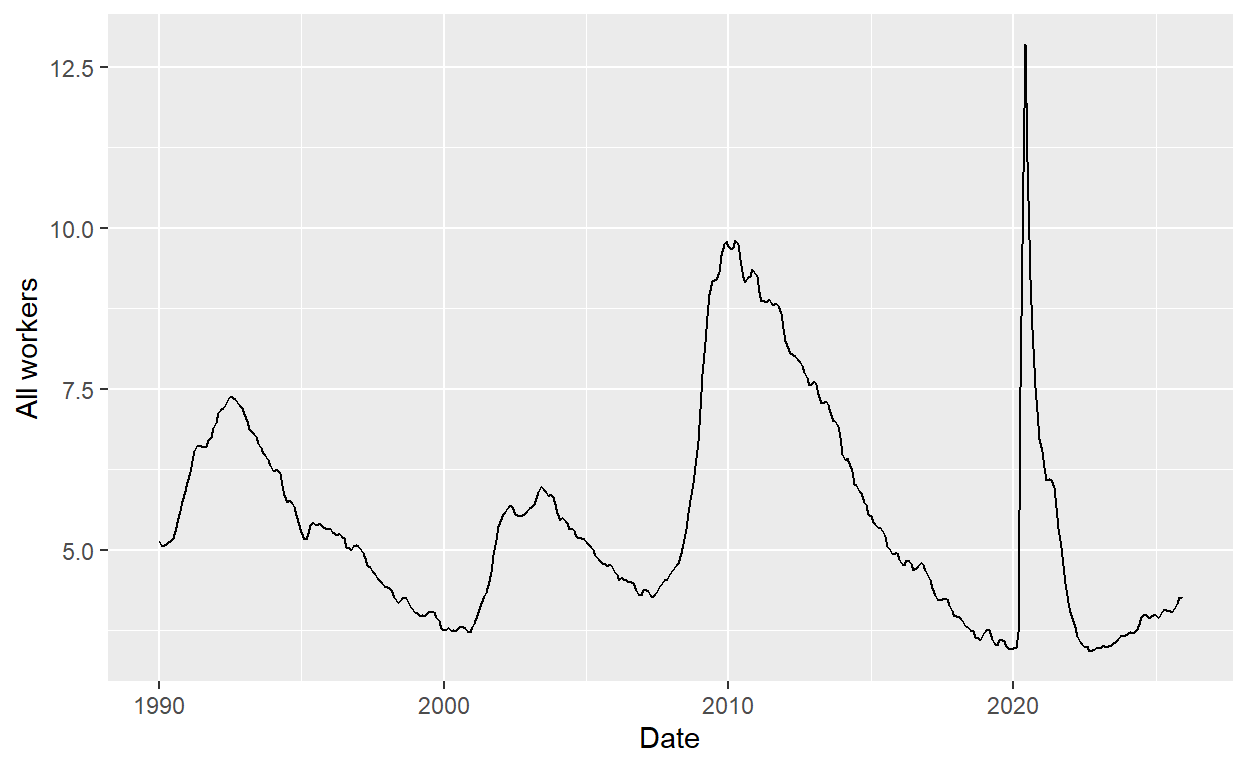
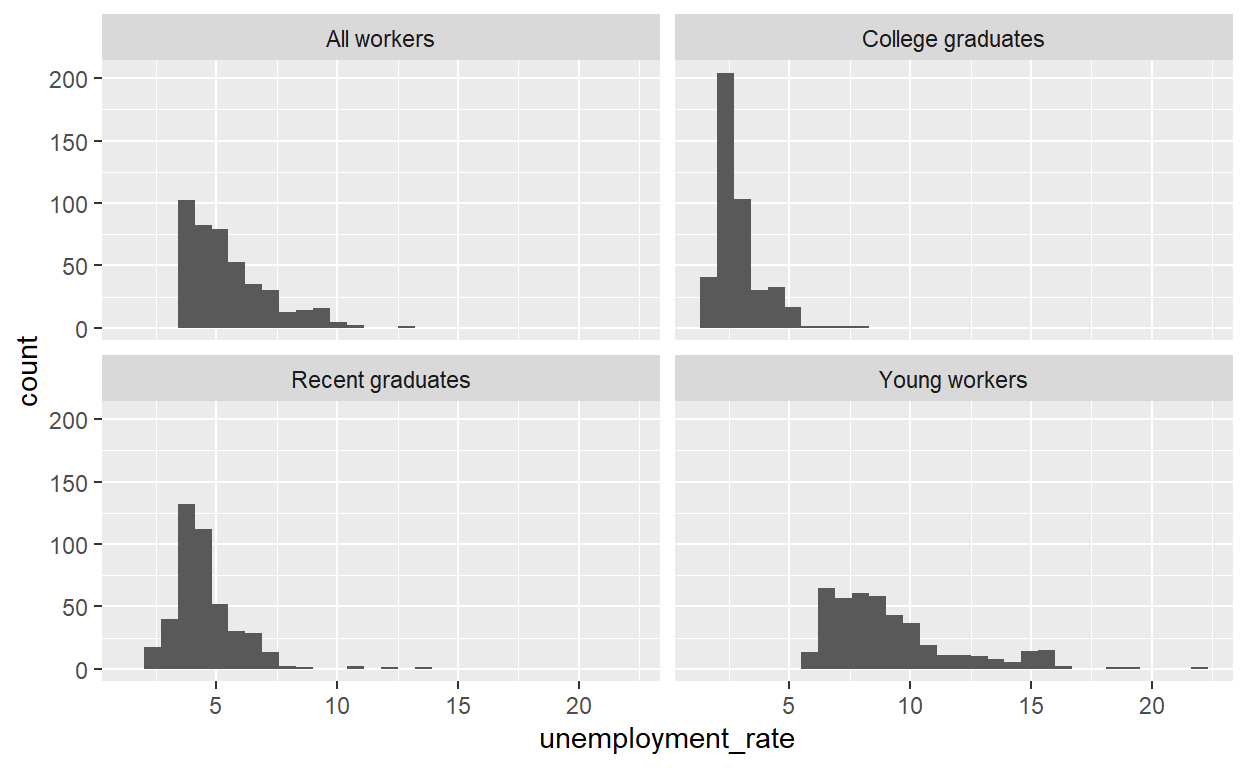
added histogram

diff --git a/index.html b/index.html
@@ -1545,9 +1545,53 @@ code span.wa { color: #5e5e5e; font-style: italic; } /* Warning */
 
 <div class="d-article">
 <h2 id="project-thoughts">Project thoughts</h2>
-<p>I am interested in exploring data related to college graduates and available jobs overtime.</p>
-<p>My research question is, how is unemployment rate related to the job availability for recent college graduates?
-My hypothesis is that the unemployment rate for recent college graduates is currently one of the highest among other groups studied, reflecting that job availability is lower for them. The variables are unemployment rate, recent college graduates, and years. My outcome variable of interest is the unemployment rate percent. This is measured by measuring what specific group (in this case recent college grads) and the percentage of them that are unemployed. The explanatory variable is time. An observed pattern in the data that would prove my hypothesis would be recent college graduates having a higher unemployment rate post 2008 among the other groups studied. A pattern that would disprove my hypothesis would be recent college graduates having a lower unemployment rate post 2008 among the other groups studied.</p>
+<p>I am interested in exploring data related to recent college graduates and other group types with the type of unemployment rate they have.</p>
+<p>My research question is, how has the passage of time post-2008 affected the recent graduate unemployment rate with other group types? (changed over time)
+My hypothesis is that the unemployment rate for recent college graduates post-2008 is currently one of the highest among other groups studied. The variables are unemployment rate, recent college graduates, college graduates, young workers, all workers, and years. My outcome variable of interest is the unemployment rate percent. This is measured by measuring what specific group (in this case recent college grads) and the percentage of them that are unemployed. The explanatory variable is the rate type. An observed pattern in the data that would prove my hypothesis would be recent college graduates having a higher unemployment rate post 2008 among the other groups studied. A pattern that would disprove my hypothesis would be recent college graduates having a lower unemployment rate post 2008 among the other groups studied.</p>
+<p>Please note that the date is the control, and is estimated in seconds so the estimate is very small.</p>
+<p>Predicting value of the rate w/ the type of rate</p>
+<p>The data file is “College-labor-data.xlsx”, and contains the following variables:</p>
+<table>
+<colgroup>
+<col style="width: 17%" />
+<col style="width: 82%" />
+</colgroup>
+<thead>
+<tr class="header">
+<th style="text-align: left;">Name</th>
+<th style="text-align: left;">Description</th>
+</tr>
+</thead>
+<tbody>
+<tr class="odd">
+<td style="text-align: left;">Date</td>
+<td style="text-align: left;">The date, measured in months, ranging from 1990-01-01 to 2025-12-01.</td>
+</tr>
+<tr class="even">
+<td style="text-align: left;">Unemployment rate</td>
+<td style="text-align: left;">Percentage of people in data that are willing and able to work but are currently without a paid job.</td>
+</tr>
+<tr class="odd">
+<td style="text-align: left;">Young workers</td>
+<td style="text-align: left;">Those aged 22 to 27 without a bachelor’s degree.</td>
+</tr>
+<tr class="even">
+<td style="text-align: left;">All workers</td>
+<td style="text-align: left;">Workers aged 16 to 65.</td>
+</tr>
+<tr class="odd">
+<td style="text-align: left;">College graduates</td>
+<td style="text-align: left;">Those aged 22 to 65 with a bachelor’s degree or higher.</td>
+</tr>
+<tr class="even">
+<td style="text-align: left;">Recent college graduates</td>
+<td style="text-align: left;">Those aged 22 to 27 with a bachelor’s degree or higher.</td>
+</tr>
+</tbody>
+</table>
+<ul>
+<li>All figures exclude those currently enrolled in school.</li>
+</ul>
 <div class="layout-chunk" data-layout="l-body">
 <div class="sourceCode">
 <pre class="sourceCode r"><code class="sourceCode r"><span><span class='fu'><a href='https://rdrr.io/r/base/getwd.html'>getwd</a></span><span class='op'>(</span><span class='op'>)</span></span></code></pre>
@@ -4617,50 +4661,6 @@ My hypothesis is that the unemployment rate for recent college graduates is curr
 </tbody>
 </table>
 </div>
-<p>Let’s visualize the unemployment data among recent graduates using ggplot.</p>
-<div class="layout-chunk" data-layout="l-body">
-<div class="sourceCode">
-<pre class="sourceCode r"><code class="sourceCode r"><span><span class='fu'><a href='https://ggplot2.tidyverse.org/reference/ggplot.html'>ggplot</a></span><span class='op'>(</span><span class='va'>college_labor</span>,</span>
-<span>       mapping <span class='op'>=</span> <span class='fu'><a href='https://ggplot2.tidyverse.org/reference/aes.html'>aes</a></span><span class='op'>(</span>x <span class='op'>=</span> <span class='va'>`Date`</span>,</span>
-<span>                     y <span class='op'>=</span> <span class='va'>`Recent graduates`</span><span class='op'>)</span><span class='op'>)</span> <span class='op'>+</span></span>
-<span>  <span class='fu'><a href='https://ggplot2.tidyverse.org/reference/geom_path.html'>geom_line</a></span><span class='op'>(</span><span class='op'>)</span></span></code></pre>
-</div>
-<p><img src="index_files/figure-html5/unnamed-chunk-4-1.png" alt="" width="624" /></p>
-</div>
-<p>Now, let’s visualize the unemployment data among all workers.</p>
-<div class="layout-chunk" data-layout="l-body">
-<div class="sourceCode">
-<pre class="sourceCode r"><code class="sourceCode r"><span><span class='fu'><a href='https://ggplot2.tidyverse.org/reference/ggplot.html'>ggplot</a></span><span class='op'>(</span><span class='va'>college_labor</span>, </span>
-<span>       mapping <span class='op'>=</span> <span class='fu'><a href='https://ggplot2.tidyverse.org/reference/aes.html'>aes</a></span><span class='op'>(</span>x <span class='op'>=</span> <span class='va'>`Date`</span>,</span>
-<span>                     y <span class='op'>=</span> <span class='va'>`All workers`</span><span class='op'>)</span><span class='op'>)</span> <span class='op'>+</span></span>
-<span>  <span class='fu'><a href='https://ggplot2.tidyverse.org/reference/geom_path.html'>geom_line</a></span><span class='op'>(</span><span class='op'>)</span> </span></code></pre>
-</div>
-<p><img src="index_files/figure-html5/unnamed-chunk-5-1.png" alt="" width="624" /></p>
-</div>
-<p>From both of these graphs we can see the unemployment rate, post 2008, among recent college graduates is higher than the rate for all workers. Let’s combine these two variables into one graph:</p>
-<div class="layout-chunk" data-layout="l-body">
-<div class="sourceCode">
-<pre class="sourceCode r"><code class="sourceCode r"><span><span class='va'>recentgrads_allworkers</span> <span class='op'>&lt;-</span> <span class='va'>college_labor</span> <span class='op'>|&gt;</span> </span>
-<span>  <span class='fu'><a href='https://tidyr.tidyverse.org/reference/pivot_longer.html'>pivot_longer</a></span><span class='op'>(</span></span>
-<span>    cols <span class='op'>=</span> <span class='fu'><a href='https://rdrr.io/r/base/c.html'>c</a></span><span class='op'>(</span><span class='va'>`Recent graduates`</span>, <span class='va'>`All workers`</span><span class='op'>)</span>,</span>
-<span>    names_to <span class='op'>=</span> <span class='st'>"group"</span>,</span>
-<span>    values_to <span class='op'>=</span> <span class='st'>"unemployment_rate"</span></span>
-<span>  <span class='op'>)</span></span></code></pre>
-</div>
-</div>
-<div class="layout-chunk" data-layout="l-body">
-<div class="sourceCode">
-<pre class="sourceCode r"><code class="sourceCode r"><span><span class='va'>recentgrads_allworkers</span> <span class='op'>|&gt;</span></span>
-<span>  <span class='fu'><a href='https://ggplot2.tidyverse.org/reference/ggplot.html'>ggplot</a></span><span class='op'>(</span>mapping <span class='op'>=</span> <span class='fu'><a href='https://ggplot2.tidyverse.org/reference/aes.html'>aes</a></span><span class='op'>(</span>x <span class='op'>=</span> <span class='va'>`Date`</span>, y <span class='op'>=</span> <span class='va'>unemployment_rate</span>, color <span class='op'>=</span> <span class='va'>group</span><span class='op'>)</span><span class='op'>)</span> <span class='op'>+</span></span>
-<span>  <span class='fu'><a href='https://ggplot2.tidyverse.org/reference/geom_path.html'>geom_line</a></span><span class='op'>(</span><span class='op'>)</span> <span class='op'>+</span></span>
-<span>  <span class='fu'><a href='https://ggplot2.tidyverse.org/reference/labs.html'>labs</a></span><span class='op'>(</span> x <span class='op'>=</span> <span class='st'>"Date"</span>,</span>
-<span>        y <span class='op'>=</span> <span class='st'>"Unemployment Rate"</span>,</span>
-<span>        title <span class='op'>=</span> <span class='st'>"Unemployment Rate Among Recent Graduates and All Workers"</span>,</span>
-<span>        color <span class='op'>=</span> <span class='st'>"Workers"</span><span class='op'>)</span></span></code></pre>
-</div>
-<p><img src="index_files/figure-html5/unnamed-chunk-7-1.png" alt="" width="624" /></p>
-</div>
-<p>From both of these data visualizations, we can say the current unemployment rate among recent college graduates is higher than that of current workers in the U.S., post 2008. To compare the unemployment rates across the row, the next graph will combine recent grads, college grads, all workers and young workers onto one (polished) graph.</p>
 <div class="layout-chunk" data-layout="l-body">
 <div class="sourceCode">
 <pre class="sourceCode r"><code class="sourceCode r"><span><span class='va'>college_labor_longer</span> <span class='op'>&lt;-</span> <span class='va'>college_labor</span> <span class='op'>|&gt;</span></span>
@@ -4671,6 +4671,19 @@ My hypothesis is that the unemployment rate for recent college graduates is curr
 <span>  <span class='op'>)</span></span></code></pre>
 </div>
 </div>
+<p>Let’s visualize the unemployment data among the group types using a histogram for the unemployment rate.</p>
+<div class="layout-chunk" data-layout="l-body">
+<div class="sourceCode">
+<pre class="sourceCode r"><code class="sourceCode r"><span><span class='fu'><a href='https://ggplot2.tidyverse.org/reference/ggplot.html'>ggplot</a></span><span class='op'>(</span><span class='va'>college_labor_longer</span>, <span class='fu'><a href='https://ggplot2.tidyverse.org/reference/aes.html'>aes</a></span><span class='op'>(</span>x <span class='op'>=</span> <span class='va'>unemployment_rate</span><span class='op'>)</span><span class='op'>)</span> <span class='op'>+</span></span>
+<span>  <span class='fu'><a href='https://ggplot2.tidyverse.org/reference/geom_histogram.html'>geom_histogram</a></span><span class='op'>(</span><span class='op'>)</span> <span class='op'>+</span></span>
+<span>  <span class='fu'><a href='https://ggplot2.tidyverse.org/reference/facet_wrap.html'>facet_wrap</a></span><span class='op'>(</span><span class='op'>~</span> <span class='va'>group</span><span class='op'>)</span></span></code></pre>
+</div>
+<p><img src="index_files/figure-html5/unnamed-chunk-5-1.png" alt="" width="624" /></p>
+</div>
+<p>From this histogram, it can be observed that an unemployment rate below five percent is generally a very common rate for recent graduates, college graduates and all workers. However, an unemployment rate above five percent is a more common rate for young workers.</p>
+<p>graph w/relationship
+boxplot to show the difference between the rate types (control for time)</p>
+<p>From both of these data visualizations, we can say the current unemployment rate among recent college graduates is higher than that of current workers in the U.S., post 2008. To compare the unemployment rates across the row, the next graph will combine recent grads, college grads, all workers and young workers onto one (polished) graph.</p>
 <div class="layout-chunk" data-layout="l-body">
 <div class="sourceCode">
 <pre class="sourceCode r"><code class="sourceCode r"><span><span class='va'>college_labor_longer</span> <span class='op'>|&gt;</span></span>
@@ -4678,80 +4691,41 @@ My hypothesis is that the unemployment rate for recent college graduates is curr
 <span>  <span class='fu'><a href='https://ggplot2.tidyverse.org/reference/geom_path.html'>geom_line</a></span><span class='op'>(</span><span class='op'>)</span> <span class='op'>+</span></span>
 <span>  <span class='fu'><a href='https://ggplot2.tidyverse.org/reference/labs.html'>labs</a></span><span class='op'>(</span> x <span class='op'>=</span> <span class='st'>"Date"</span>, </span>
 <span>        y <span class='op'>=</span> <span class='st'>"Unemployment Rate"</span>, </span>
-<span>        title <span class='op'>=</span> <span class='st'>"Unemployment Rate Among Recent College Graduates"</span>,</span>
+<span>        title <span class='op'>=</span> <span class='st'>"Unemployment Rate Among Group Types"</span>,</span>
 <span>        color <span class='op'>=</span> <span class='st'>"Groups"</span><span class='op'>)</span></span></code></pre>
 </div>
-<p><img src="index_files/figure-html5/unnamed-chunk-9-1.png" alt="" width="624" /></p>
+<p><img src="index_files/figure-html5/unnamed-chunk-6-1.png" alt="" width="624" /></p>
 </div>
 <p>From these graphs and data visualizations, it could be concluded that the unemployment rate is related to the job availability for recent college graduates based on its rate. For example, a high unemployment rate among recent graduates likely correlates with a lower job availability for recent graduates in the labor market. A low unemployment rate among recent graduates could correlate with a higher job availability for them in the labor market. It seems that this graph would answer my research question but disprove my hypothesis. Post-2008, recent college graduates do not have the highest unemployment rate, rather it’s young workers that do, but recent college graduates follow closely behind.</p>
 <div class="layout-chunk" data-layout="l-body">
 <div class="sourceCode">
-<pre class="sourceCode r"><code class="sourceCode r"><span><span class='va'>collegelabor.reg</span> <span class='op'>&lt;-</span> <span class='fu'><a href='https://rdrr.io/r/stats/lm.html'>lm</a></span><span class='op'>(</span><span class='va'>`unemployment_rate`</span> <span class='op'>~</span> <span class='va'>`Date`</span>, data <span class='op'>=</span> <span class='va'>college_labor_longer</span><span class='op'>)</span> <span class='op'>|&gt;</span></span>
-<span>  <span class='fu'>modelsummary</span><span class='fu'>::</span><span class='fu'><a href='https://modelsummary.com/man/modelsummary.html'>modelsummary</a></span><span class='op'>(</span><span class='op'>)</span></span>
+<pre class="sourceCode r"><code class="sourceCode r"><span><span class='va'>collegelabor.reg</span> <span class='op'>&lt;-</span> <span class='fu'><a href='https://rdrr.io/r/stats/lm.html'>lm</a></span><span class='op'>(</span><span class='va'>`unemployment_rate`</span> <span class='op'>~</span> <span class='va'>`Date`</span> <span class='op'>+</span> <span class='va'>group</span>, data <span class='op'>=</span> <span class='va'>college_labor_longer</span><span class='op'>)</span> <span class='op'>|&gt;</span></span>
+<span> <span class='fu'><a href='https://rdrr.io/r/base/summary.html'>summary</a></span><span class='op'>(</span><span class='op'>)</span></span>
 <span><span class='va'>collegelabor.reg</span></span></code></pre>
 </div>
-<table style="width:36%;">
-<colgroup>
-<col style="width: 19%" />
-<col style="width: 16%" />
-</colgroup>
-<thead>
-<tr class="header">
-<th></th>
-<th><ol type="1">
-<li></li>
-</ol></th>
-</tr>
-</thead>
-<tbody>
-<tr class="odd">
-<td>(Intercept)</td>
-<td>5.163</td>
-</tr>
-<tr class="even">
-<td></td>
-<td>(0.267)</td>
-</tr>
-<tr class="odd">
-<td>Date</td>
-<td>0.000</td>
-</tr>
-<tr class="even">
-<td></td>
-<td>(0.000)</td>
-</tr>
-<tr class="odd">
-<td>Num.Obs.</td>
-<td>1728</td>
-</tr>
-<tr class="even">
-<td>R2</td>
-<td>0.001</td>
-</tr>
-<tr class="odd">
-<td>R2 Adj.</td>
-<td>0.001</td>
-</tr>
-<tr class="even">
-<td>AIC</td>
-<td>8629.3</td>
-</tr>
-<tr class="odd">
-<td>BIC</td>
-<td>8645.7</td>
-</tr>
-<tr class="even">
-<td>Log.Lik.</td>
-<td>-4311.646</td>
-</tr>
-<tr class="odd">
-<td>RMSE</td>
-<td>2.93</td>
-</tr>
-</tbody>
-</table>
+<pre><code>
+Call:
+lm(formula = unemployment_rate ~ Date + group, data = college_labor_longer)
+
+Residuals:
+    Min      1Q  Median      3Q     Max 
+-3.4483 -0.9774 -0.3229  0.5972 12.5996 
+
+Coefficients:
+                         Estimate Std. Error t value Pr(&gt;|t|)    
+(Intercept)             5.119e+00  1.782e-01  28.730  &lt; 2e-16 ***
+Date                    3.055e-10  1.305e-10   2.342   0.0193 *  
+groupCollege graduates -2.613e+00  1.210e-01 -21.590  &lt; 2e-16 ***
+groupRecent graduates  -9.594e-01  1.210e-01  -7.928 3.97e-15 ***
+groupYoung workers      3.751e+00  1.210e-01  30.993  &lt; 2e-16 ***
+---
+Signif. codes:  0 &#39;***&#39; 0.001 &#39;**&#39; 0.01 &#39;*&#39; 0.05 &#39;.&#39; 0.1 &#39; &#39; 1
+
+Residual standard error: 1.779 on 1723 degrees of freedom
+Multiple R-squared:  0.6339,    Adjusted R-squared:  0.6331 
+F-statistic: 745.9 on 4 and 1723 DF,  p-value: &lt; 2.2e-16</code></pre>
 </div>
-<div class="sourceCode" id="cb3"><pre class="sourceCode r distill-force-highlighting-css"><code class="sourceCode r"></code></pre></div>
+<div class="sourceCode" id="cb4"><pre class="sourceCode r distill-force-highlighting-css"><code class="sourceCode r"></code></pre></div>
 <!--radix_placeholder_article_footer-->
 <!--/radix_placeholder_article_footer-->
 </div>
